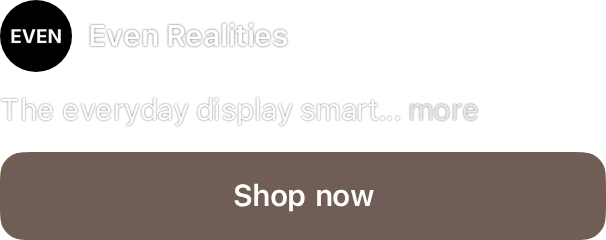
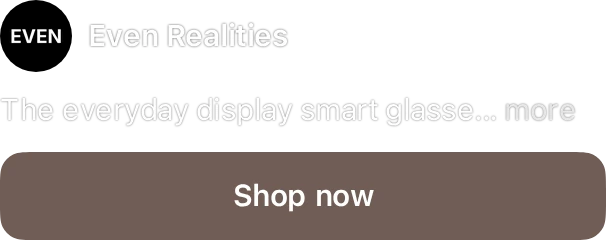
SAP: captions fitted so the 'more' arrow ends at the CTA's right edge (x 315; whole word, or mid-word when a word cut leaves >12pt); fuller ad copy; spec in preview/shared/caption/ad-label-spec.md; poster re-rendered

Changed region(s): [[0.6238, 0.4083, 0.802, 0.525], [0.8317, 0.4083, 0.9505, 0.525]]

diff --git a/preview/sap-proto/index.html b/preview/sap-proto/index.html
@@ -59,7 +59,8 @@ video{display:block;object-fit:cover}
 .grad{left:0;top:470px;width:375px;height:264px;background:linear-gradient(to top,rgba(0,0,0,.4) 0%,rgba(0,0,0,.36) 20%,rgba(0,0,0,.3) 39.65%,rgba(0,0,0,.2) 60.35%,rgba(0,0,0,.08) 80.13%,rgba(0,0,0,0) 100%)}
 .det{left:12px;top:565px;width:303px;height:120px}
 /* the caption's "... more" down arrow: the Caption & Browse arrow (preview/shared/caption/chevron-down.svg, 12×8 box, the 8×4 arrow 2px in),
-   5px after the ink of "more", centred on the caption's x-height (line top + 9); left per ad = 12 + the "more" ink end + 3.05 */
+   5px after the ink of "more", centred on the caption's x-height (line top + 9); left per ad = 12 + the "more" ink end + 3.05, snapped down to 0.5.
+   Captions are fitted so the arrow's drawn right edge (left + 10.65) lands within 12px of, never past, the CTA's right edge x 315 (preview/shared/caption/ad-label-spec.md) */
 .cchev{width:12px;height:8px;pointer-events:none}
 .ufi{left:326px;top:486px;width:49px;height:237px}
 .row{left:12px;top:698px;width:303px;height:24px;overflow:hidden}
@@ -71,7 +72,7 @@ video{display:block;object-fit:cover}
 .sp{left:0;width:47.5px}
 /* the Ad label (Reels, 2025+; replaced "Sponsored"): the shared pill, preview/shared/caption/ad-pill.svg, drawn with its own fill; 12px above the reel's
    bottom edge (top 698), left-aligned with the CTA. The brand row has the shared globe (preview/shared/caption/globe.svg) 7px after the name;
-   stack (bottom-anchored, from Hang's Reels references): author 565 · caption line 610 · CTA 641–685 · Ad 698–722 (see previews/ad-label-spec.md) */
+   stack (bottom-anchored, from Hang's Reels references): author 565 · caption line 610 · CTA 641–685 · Ad 698–722 (see preview/shared/caption/ad-label-spec.md) */
 .pill.sp{background:none}
 .cglobe{width:12px;height:12px;pointer-events:none}
 .chip{left:51.5px;width:153px;opacity:0;will-change:transform,opacity}
@@ -143,14 +144,14 @@ html.embed-full,html.embed-full body,html.embed-full .mframe{background:transpar
         </div>
         <div class="L stack" id="stack" aria-hidden="true">
           <div class="L pg" id="pw" style="background-image:url(../../assets/vac/vac-sap-warby.webp?v=209)"><video class="fv" id="wv" muted playsinline preload="auto" disableremoteplayback poster="../../assets/vac/vac-sap-warby.webp?v=209" src="../../assets/vac/vac-sap-warby.mp4?v=209"></video>
-            <i class="tgrad"></i><i class="grad"></i><img class="det" alt="" src="assets/det-warby.webp?v=209"><img class="cglobe" alt="" src="../shared/caption/globe.svg?v=209" style="left:161px;top:577px"><img class="cchev" alt="" src="../shared/caption/chevron-down.svg?v=209" style="left:266px;top:617px"><i class="press" style="left:12px;top:641px;width:303px;height:44px"></i>
+            <i class="tgrad"></i><i class="grad"></i><img class="det" alt="" src="assets/det-warby.webp?v=209"><img class="cglobe" alt="" src="../shared/caption/globe.svg?v=209" style="left:161px;top:577px"><img class="cchev" alt="" src="../shared/caption/chevron-down.svg?v=209" style="left:303.5px;top:617px"><i class="press" style="left:12px;top:641px;width:303px;height:44px"></i>
             <div class="row"><span class="pill sp"><img alt="" src="../shared/caption/ad-pill.svg?v=209"></span></div><img class="ufi" alt="" src="assets/ufi.webp?v=209"></div>
           <div class="L pg" id="pz" style="background-image:url(../../assets/vac/vac-sap-zenni.webp?v=209)"><video class="fv" id="zv" muted playsinline preload="auto" disableremoteplayback poster="../../assets/vac/vac-sap-zenni.webp?v=209" src="../../assets/vac/vac-sap-zenni.mp4?v=209"></video>
             <img class="zl" id="zl" alt="" src="../../assets/vac/vac-sap-zenni-last.webp?v=209">
-            <i class="tgrad"></i><i class="grad"></i><img class="det" alt="" src="assets/det-zenni.webp?v=209"><img class="cglobe" alt="" src="../shared/caption/globe.svg?v=209" style="left:159px;top:577px"><img class="cchev" alt="" src="../shared/caption/chevron-down.svg?v=209" style="left:268px;top:617px"><i class="press" style="left:12px;top:641px;width:303px;height:44px"></i>
+            <i class="tgrad"></i><i class="grad"></i><img class="det" alt="" src="assets/det-zenni.webp?v=209"><img class="cglobe" alt="" src="../shared/caption/globe.svg?v=209" style="left:159px;top:577px"><img class="cchev" alt="" src="../shared/caption/chevron-down.svg?v=209" style="left:301px;top:617px"><i class="press" style="left:12px;top:641px;width:303px;height:44px"></i>
             <div class="row"><span class="pill sp"><img alt="" src="../shared/caption/ad-pill.svg?v=209"></span></div><img class="ufi" alt="" src="assets/ufi.webp?v=209"></div>
           <div class="L pg" id="pe" style="background-image:url(../../assets/vac/vac-sap-even.webp?v=209)"><video class="fv" id="ev" muted playsinline loop preload="auto" disableremoteplayback poster="../../assets/vac/vac-sap-even.webp?v=209" src="../../assets/vac/vac-sap-even.mp4?v=209"></video>
-            <i class="tgrad"></i><i class="grad"></i><img class="det" alt="" src="assets/det-even.webp?v=209"><img class="cglobe" alt="" src="../shared/caption/globe.svg?v=209" style="left:162.5px;top:577px"><img class="cchev" alt="" src="../shared/caption/chevron-down.svg?v=209" style="left:254px;top:617px"><i class="press" style="left:12px;top:641px;width:303px;height:44px"></i>
+            <i class="tgrad"></i><i class="grad"></i><img class="det" alt="" src="assets/det-even.webp?v=209"><img class="cglobe" alt="" src="../shared/caption/globe.svg?v=209" style="left:162.5px;top:577px"><img class="cchev" alt="" src="../shared/caption/chevron-down.svg?v=209" style="left:302.5px;top:617px"><i class="press" style="left:12px;top:641px;width:303px;height:44px"></i>
             <div class="row"><span class="pill sp"><img alt="" src="../shared/caption/ad-pill.svg?v=209"></span></div><img class="ufi" alt="" src="assets/ufi.webp?v=209"></div>
           <div class="L pg lc" id="pl"><video class="fv" id="lv" muted playsinline preload="auto" disableremoteplayback poster="../../assets/vac/vac-sap-lc.webp?v=209" src="../../assets/vac/vac-sap-lc.mp4?v=209" style="background-image:url(../../assets/vac/vac-sap-lc.webp?v=209)"></video>
             <img alt="" src="assets/det-lc.webp?v=209" style="left:12px;top:537px;width:303px;height:65px"><img class="cglobe" alt="" src="../shared/caption/globe.svg?v=209" style="left:156px;top:549px"><img class="cchev" alt="" src="../shared/caption/chevron-down.svg?v=209" style="left:292.5px;top:589px">

diff --git a/preview/shared/caption/ad-label-spec.md b/preview/shared/caption/ad-label-spec.md
@@ -1,0 +1,55 @@
+# Reels "Ad" label: measured spec (replaces sponsored-spec.md)
+
+Sources: Hang's screenshots /workspace/refs/ad-label/kalshi.png and muse.png (iPhone at 3x, 1260×2736 px = 420×912 pt).
+All values are in pt (px ÷ 3). Reels uses the same 78pt comment bar as our stage, so the stack is **anchored to the reel's bottom edge**:
+the reel's bottom is at 834 in the reference and 734 in ours, so **ours = ref − 100**. Horizontal values keep the 12pt left inset.
+
+## Stack (top → bottom), as applied in preview/sap-proto (375×812 stage, reel 375×734)
+
+| element | reference (pt) | ours (pt) | notes |
+|---|---|---|---|
+| Avatar | 36 circle, x 12, y 664.7–700.7 | x 12, y 565–601 | unchanged size |
+| Brand name | 15pt **Semibold**, x 56, baseline row top + 23.6 | x 56 (det-relative 44), 15/20, weight 600, −0.24 tracking | weight from ink width: 208pt measured vs 204.6 at 500 and 209.5 at 600 |
+| Verified badge | **none** | removed | |
+| Globe | 12pt box (ink ≈11.3), 7pt after the name's advance, vertically centred on the 36pt row (box top = row top + 12) | `globe.svg`, 12×12, top 577 (LensCrafters 549), left = 12 + 44 + name advance + 7 | Ray-Ban 124.5 · Warby 161 · Zenni 159 · Even 162.5 · LensCrafters 156 |
+| "Sponsored" line | **none** | removed | |
+| Caption | 15/20 regular, x 12, line top 709.7 (9.3 below the brand row) | line 610–630; "… more ⌄" (chevron-down.svg, 12×8 at line top + 7) | fitted so the arrow ends at the CTA's right edge (rule below) |
+| CTA | x 12, 352 wide (right edge 364 of 420), y 741–785 (44 tall), 11 below the caption, r ≈ 12, label 15 semibold centred | x 12, **303 wide**, y 641–685, 60% squircle r 12 | width kept at 303 so it stays clear of the action column (x 326); proportional would be ≈314 |
+| **Ad pill** | x 12, 47.3 × 24, y 798.3–822.3; 13.3 below the CTA, 12 above the reel's bottom | `ad-pill.svg`, x 12, y 698–722 (47.5 × 24) | left-aligned with the CTA |
+| "Explore more like this" chip (SAP only) | n/a | x 63.5 (pill + 4), y 698 | moved left from 110 |
+| LensCrafters (carousel instead of CTA) | n/a | author 537, caption 582, carousel 613–685, pill 698 | carousel bottom on the CTA's bottom |
+
+## Caption fitting rule (Hang, 27 Oct): the "more ⌄" arrow ends at the CTA's right edge
+Use the same rule in MAC and every other surface. Coordinates are phone pt, with the caption/CTA left edge at x 12.
+- **Target:** the CTA's right edge, **x = 315** (12 + 303). Ads without a CTA (LensCrafters, carousel) use the same x.
+- **Caption string:** prefix + `...` + space + `more` (`more` at 80% white), 15/20 SF Pro Text Regular, −0.24 tracking. Strip trailing spaces and `, . ; :` from the prefix before adding `...`.
+- **"more" ink end:** e = the rendered string's advance width + 0.24 (Chrome adds tracking after the last glyph) − 0.791 (the right side bearing of "e": SF Pro Text Regular advance 1170, xMax 1062, upm 2048, at 15pt). This is relative to the caption's left edge.
+- **Arrow box:** chevron-down.svg (12×8) left **L = floor((12 + e + 3.05) × 2) / 2** (snapped down to 0.5pt), top = caption line top + 7.
+- **Arrow right edge:** the drawn stroke's right edge = **L + 10.65** (path x 10 + the 0.65 round cap; the 0.5pt shadow blur isn't counted).
+- **Fit:** take the longest **whole-word** prefix with L + 10.65 ≤ 315. If that leaves a gap of more than **12pt** (315 − right > 12), use the longest **character** prefix with L + 10.65 ≤ 315 instead (a mid-word cut, Instagram style). Never go past 315. The tolerance is 0 past, ≤ 12 short for whole-word cuts, and the mid-word cut gets as close as possible.
+- **Reference implementation:** `fitCap()` in the SAP caption renderer (build/ui.html in the SAP working folder; SF Pro Text OTFs, Chromium).
+
+| ad | full caption (source copy) | rendered | cut | arrow L | arrow right | gap to 315 |
+|---|---|---|---|---|---|---|
+| Ray-Ban | Hey Meta, Who Eats Art? Ft. Chris Hemsworth and Chris Pratt. | Hey Meta, Who Eats Art? Ft. Chris... more | word | 296.5 | 307.15 | 7.85 |
+| Warby Parker | We’ve got your eyes covered. Find your new favorite frames, online or in store. | We’ve got your eyes covered. Find... more | word | 303.5 | 314.15 | 0.85 |
+| Zenni Optical | The Kittles Collection x Zenni Optical. Shop the full collection of frames at zenni.com. | The Kittles Collection x Zenni Opti... more | mid-word (word cut gap > 12) | 301 | 311.65 | 3.35 |
+| Even Realities | The everyday display smart glasses. Meet Even G2, with a discreet display built into prescription-ready lenses. | The everyday display smart glasse... more | mid-word (word cut gap > 12) | 302.5 | 313.15 | 1.85 |
+| LensCrafters | High-quality prescription glasses standard with every pair. Book an eye exam at a LensCrafters near you. | High-quality prescription glasses... more | word (gap ≤ 12) | 292.5 | 303.15 | 11.85 |
+
+Pixel check (DPR 4, arrow shown vs hidden, threshold on the visible stroke; the rightmost partly covered pixel rounds up 0.25): Chromium arrow/CTA edges were Warby 315.25/315.25, Zenni 312.25/315.25, Even 314.25/315.25 and LC 304.25/315. WebKit was Warby 315.5/316.0, Zenni 312.75/316.0 and Even 314.75/316.0. The arrow never passes the CTA edge.
+
+## Ad pill internals (ad-pill.svg, 47.5 × 24)
+- Capsule: rx 12, fill #18191A at **60%** (the house chip/pill rule). Measured effective opacity is ≈0.49 (Muse) and 0.36–0.48 (Kalshi). Use `fill-opacity` 0.5 if Hang wants it lighter.
+- Megaphone: traced from Kalshi (16× upsample), ink 8.33–19.33 × 6.33–17.0 inside the pill, white.
+- "Ad": SF Pro Text Regular 12pt, as **outlined paths** (no font dependency). Origin x 24, baseline 16, cap top 7.67, advance end ≈39.5 → 8pt right padding.
+- Self-contained: the SVG draws its own fill, so the host element needs `background:none`.
+
+## Globe (globe.svg, 12 × 12)
+- White evenodd path, traced from Kalshi (ink px 820–853 × 2032–2065, centred in the box).
+- Use as an `<img>` 12×12. Don't recolour it; the ref is white on video.
+
+## Reuse (MAC, VAC hero)
+- Files: `preview/shared/caption/ad-pill.svg` (md5 39ad187e8b062a46cee2c860a8098f30) and `preview/shared/caption/globe.svg` (md5 0892aa4929763e5956854536439a526d). Reference them in place (`../shared/caption/…?v=…`) instead of copying, so they stay byte-identical.
+- For MAC's raster det/caption images (s-det.webp, lc-caption.webp, rb-det.webp), re-render the brand row without the badge, Sponsored line and globe, with the name at 600. Then overlay globe.svg and ad-pill.svg at the positions above (shift by MAC's own reel bottom: y = reelBottom − 36 for the pill, and so on).
+- The bottom-anchored offsets from the reel's bottom edge (B): pill B−36…B−12; CTA B−93…B−49; caption line B−124…B−104; author row B−169…B−133; globe top B−157.
